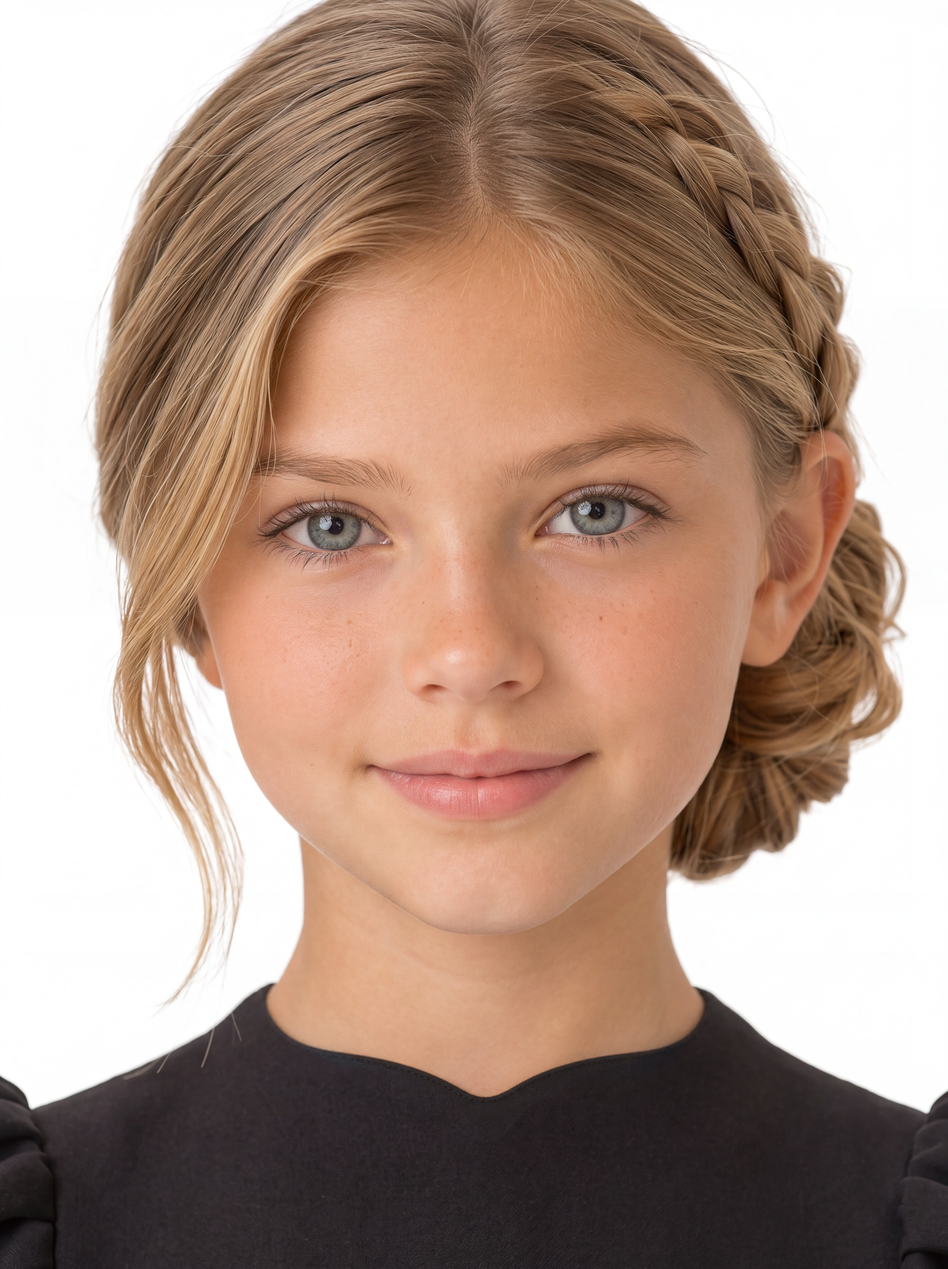
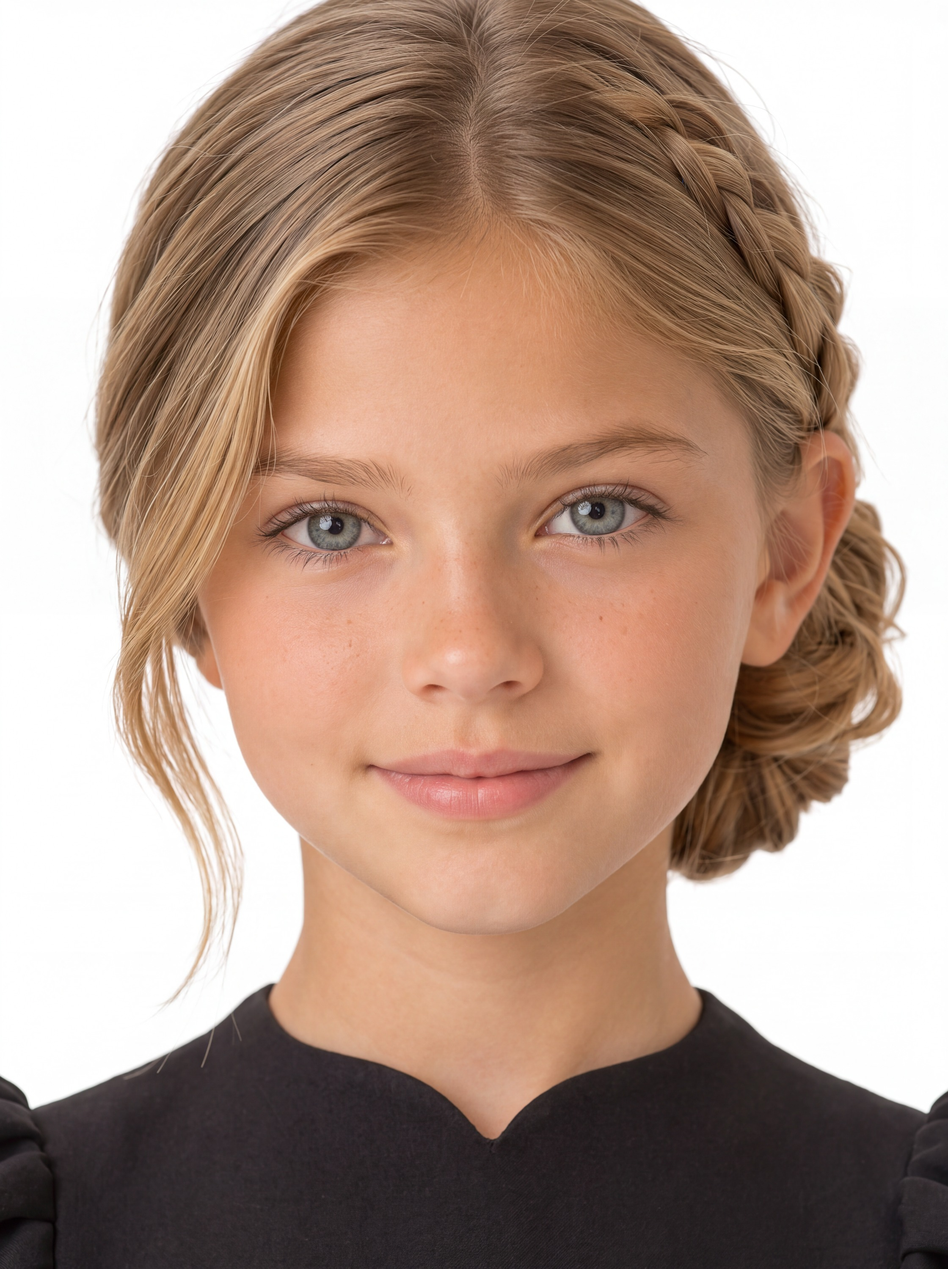
סטנדרט צוואר לפי שושי; החזרת גרסאות קודמות בדגם 1 קטנה ודגם 13 גדולה
Claude-Session: https://claude.ai/code/session_013bHfeojD3ywY6KMPCookv2

diff --git a/tools/AGENT_BRIEF_NECKFIX3.md b/tools/AGENT_BRIEF_NECKFIX3.md
@@ -1,0 +1,15 @@
+# פתח צוואר, סטנדרט סופי (אחרי משוב שושי) — הנחיות לסוכן
+
+שושי (הלקוחה) והמשתמשת קבעו: **הסטנדרט לפתח הצוואר הוא דגם 5 ילדה קטנה**: `/home/user/SHOSHI-GELIS/review/neck-refs/STANDARD_m05_small_neck.jpg` (וגם `STANDARD_m01_big_plain_neck.jpg`). לפתוח ולהסתכל היטב. מה שיש שם:
+- **קצה נקי**: הבד עצמו נגמר בקו חלק. **אין** פס שפה, **אין** ביס/פייפינג, **אין** תפר נראה, **אין** רצועת בד נוספת, אין קו מקביל לקצה. זה הדבר הכי חשוב: שושי פסלה כ־30 תמונות על "מסגרת / תפר / תוספת בד".
+- גבוה וצמוד לבסיס הצוואר, ברוחב הצוואר בלבד.
+- שתי קשתות רכות (קמורות) שנפגשות ב**שקע אחד קטן**, עם חוד קטן ועדין. לא V גדול/עמוק/רחב, לא קו גלי עם כמה קשתות, לא עגול לגמרי (אלא אם השמלה עגולה).
+- לשמלה עם **צוואר עגול** (דגם 3, דגם 7 נערה ראשונה): הצורה נשארת עגולה; רק להסיר את התפר/הפס כך שהקצה ייראה "חתיכה אחת של הבד".
+
+הכלי: `mcp__Magnific-bcaf73fa__images_retouch`, `mode: "replace"`, `editType: "precise"`, מסכה לבנה על קצה הצוואר בלבד (בנייה והעלאה כמו ב־`/home/user/SHOSHI-GELIS/tools/AGENT_BRIEF_NECKFIX2.md`). המסכה צריכה לכסות את כל הפס/התפר הקיים (עד כ־1.5% מגובה התמונה מתחתיו) ומעט עור מעל.
+
+פרומפט בסיס (להתאים סוגריים; **לא** לכתוב "sewn edge", "finished edge", "binding", "trim" בחיוב):
+"The top of the [girl's/woman's] [צבע ובד] dress at the base of her neck. The fabric simply ends in a clean, smooth, plain cut edge: NO binding, NO piping, NO band, NO facing strip, NO topstitching, NO visible seam line, no second line parallel to the edge, no border of any kind — just the same [בד] continuing unchanged right up to the edge, as one single piece of fabric. Shape of the edge: high and close to the base of the neck, only as wide as the neck, two soft rounded curves that meet in one small, shallow notch in the centre with a tiny gentle point (a small modest sweetheart). Not a big V, not deep, not wide, not wavy or scalloped. [העיטור] continues below exactly as around it. Natural skin above."
+לצוואר עגול: להחליף את משפט הצורה ב־"Shape of the edge: a plain smooth round neckline, high at the base of the neck."
+
+בדיקה בעיניים, בהגדלה, מול `STANDARD_m05_small_neck.jpg`: (1) אין שום פס/תפר/מסגרת; (2) הצורה כמו בסטנדרט; (3) אין גבול מסכה, הבד והעיטור רציפים; (4) מחוץ למסכה לא השתנה דבר. כתוב בעברית, אל תמחק ואל תדרוס קבצים, אל תעשה git commit/push. folderReference: `736649c7-48c2-4480-9981-4f3a060a7870`.
